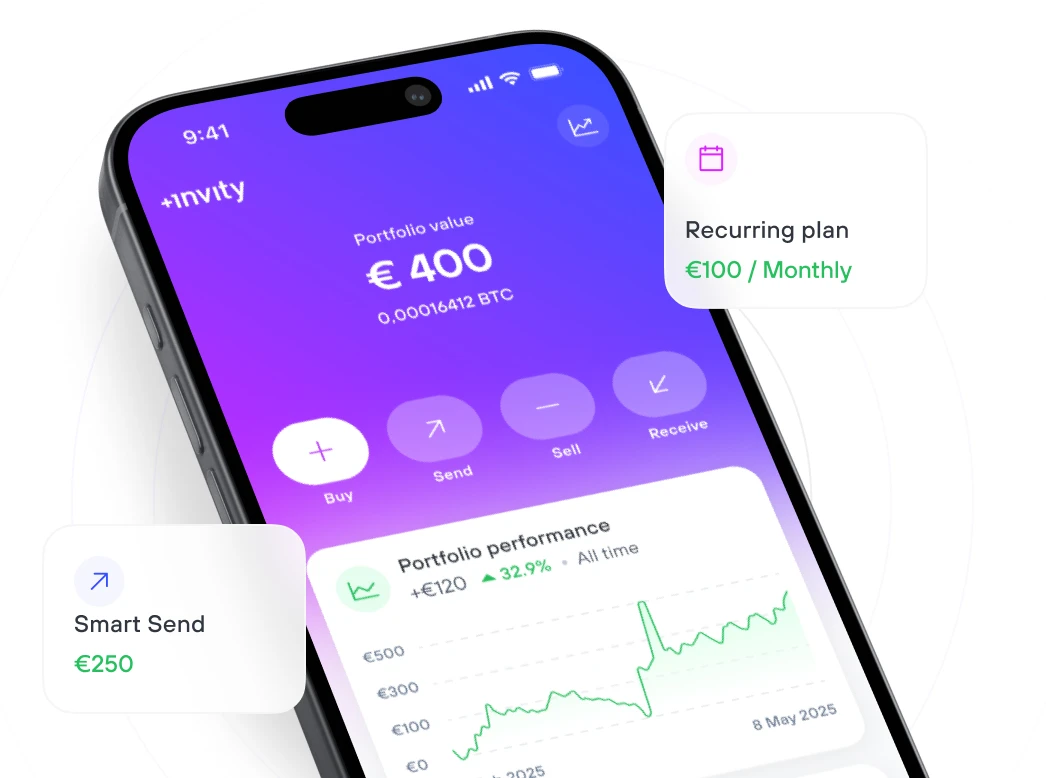
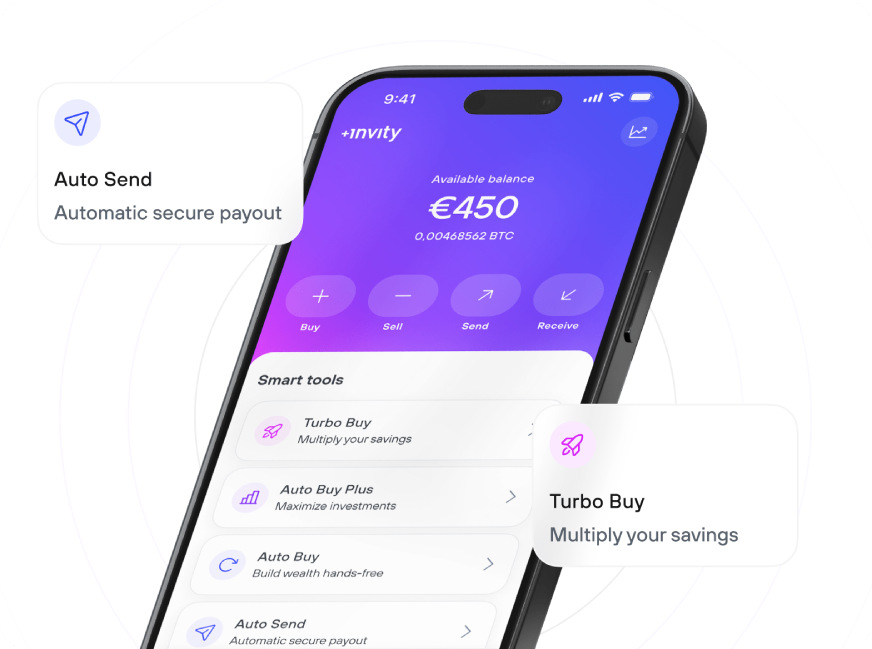
feat(trading): update DCA copy and assets

diff --git a/packages/suite/src/support/messages.ts b/packages/suite/src/support/messages.ts
@@ -1410,24 +1410,24 @@ export default defineMessages({
         id: 'TR_TRADING_DCA_HEADING',
     },
     TR_TRADING_DCA_FEATURE_1_SUBHEADING: {
-        defaultMessage: 'Build your bitcoin portfolio',
+        defaultMessage: 'Build your bitcoin portfolio with the Invity app',
         id: 'TR_TRADING_DCA_FEATURE_1_SUBHEADING',
         dynamic: true,
     },
     TR_TRADING_DCA_FEATURE_1_DESCRIPTION: {
         defaultMessage:
-            'Invest automatically with the Invity app and grow your bitcoin savings over time.',
+            'Set it & forget it with Auto Buy or let Auto Buy Plus optimize your timing for smarter stacking.',
         id: 'TR_TRADING_DCA_FEATURE_1_DESCRIPTION',
         dynamic: true,
     },
     TR_TRADING_DCA_FEATURE_2_SUBHEADING: {
-        defaultMessage: 'Secure & reliable—built in partnership with Trezor',
+        defaultMessage: 'Boost your growth with Turbo Buy',
         id: 'TR_TRADING_DCA_FEATURE_2_SUBHEADING',
         dynamic: true,
     },
     TR_TRADING_DCA_FEATURE_2_DESCRIPTION: {
         defaultMessage:
-            'Built for long-term bitcoin investors who value security and self-custody.',
+            'Add up to 60% more capital on top of your regular plan to accelerate returns.',
         id: 'TR_TRADING_DCA_FEATURE_2_DESCRIPTION',
         dynamic: true,
     },
@@ -1438,7 +1438,7 @@ export default defineMessages({
     },
     TR_TRADING_DCA_FEATURE_3_DESCRIPTION: {
         defaultMessage:
-            'Smart Send automatically moves your bitcoin to your Trezor at no extra cost, keeping your investments secure and always in your control.',
+            'Auto Send automatically moves your bitcoin to your Trezor at no extra cost, keeping your investments secure and always under your control.',
         id: 'TR_TRADING_DCA_FEATURE_3_DESCRIPTION',
         dynamic: true,
     },
@@ -1453,12 +1453,12 @@ export default defineMessages({
         dynamic: true,
     },
     TR_TRADING_DCA_STEP_CARD_2_SUBHEADING: {
-        defaultMessage: 'Set up a hassle-free automatic plan.',
+        defaultMessage: 'Set up your preferred automatic plan',
         id: 'TR_TRADING_DCA_STEP_CARD_2_SUBHEADING',
         dynamic: true,
     },
     TR_TRADING_DCA_STEP_CARD_2_DESCRIPTION: {
-        defaultMessage: "It's up to you—weekly, every two weeks, or monthly.",
+        defaultMessage: 'Choose Auto Buy, Auto Buy Plus, or Turbo Buy.',
         id: 'TR_TRADING_DCA_STEP_CARD_2_DESCRIPTION',
         dynamic: true,
     },
@@ -1468,7 +1468,8 @@ export default defineMessages({
         dynamic: true,
     },
     TR_TRADING_DCA_STEP_CARD_3_DESCRIPTION: {
-        defaultMessage: 'Use Smart Send to automatically move your bitcoin to your Trezor.',
+        defaultMessage:
+            'Use Auto Send to automatically move your bitcoin to your Trezor (not valid for active Turbo Buy).',
         id: 'TR_TRADING_DCA_STEP_CARD_3_DESCRIPTION',
         dynamic: true,
     },
